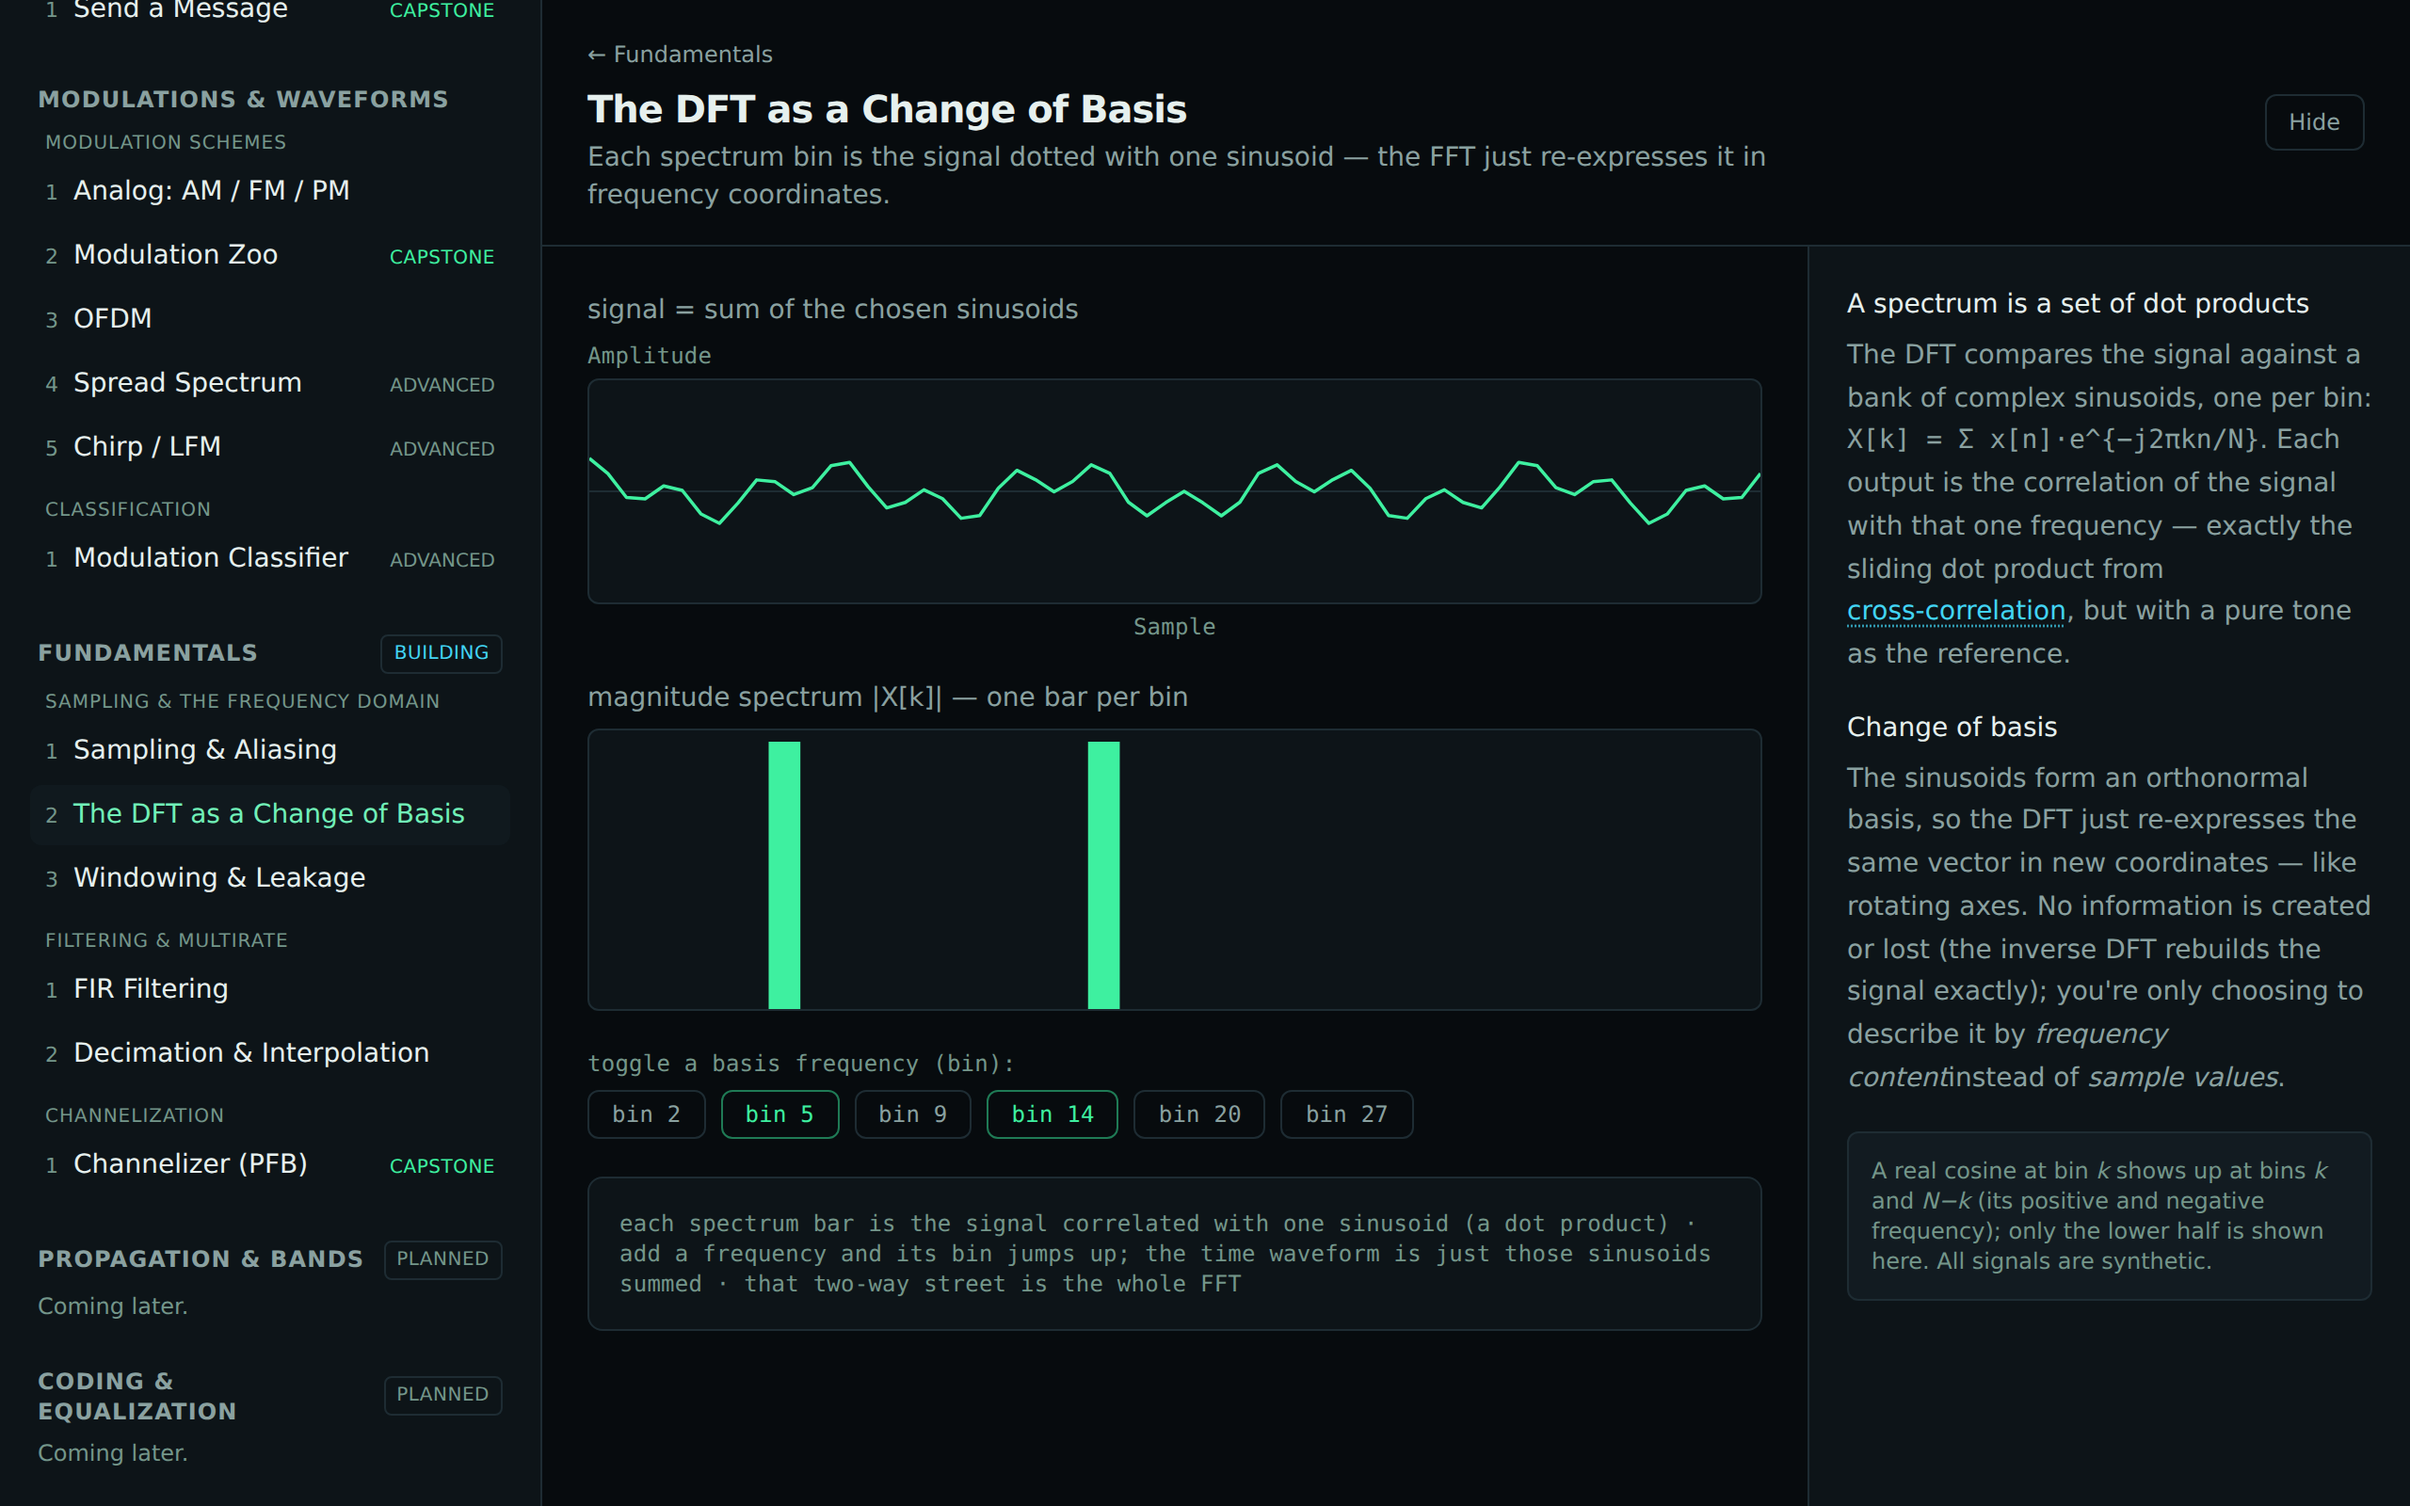
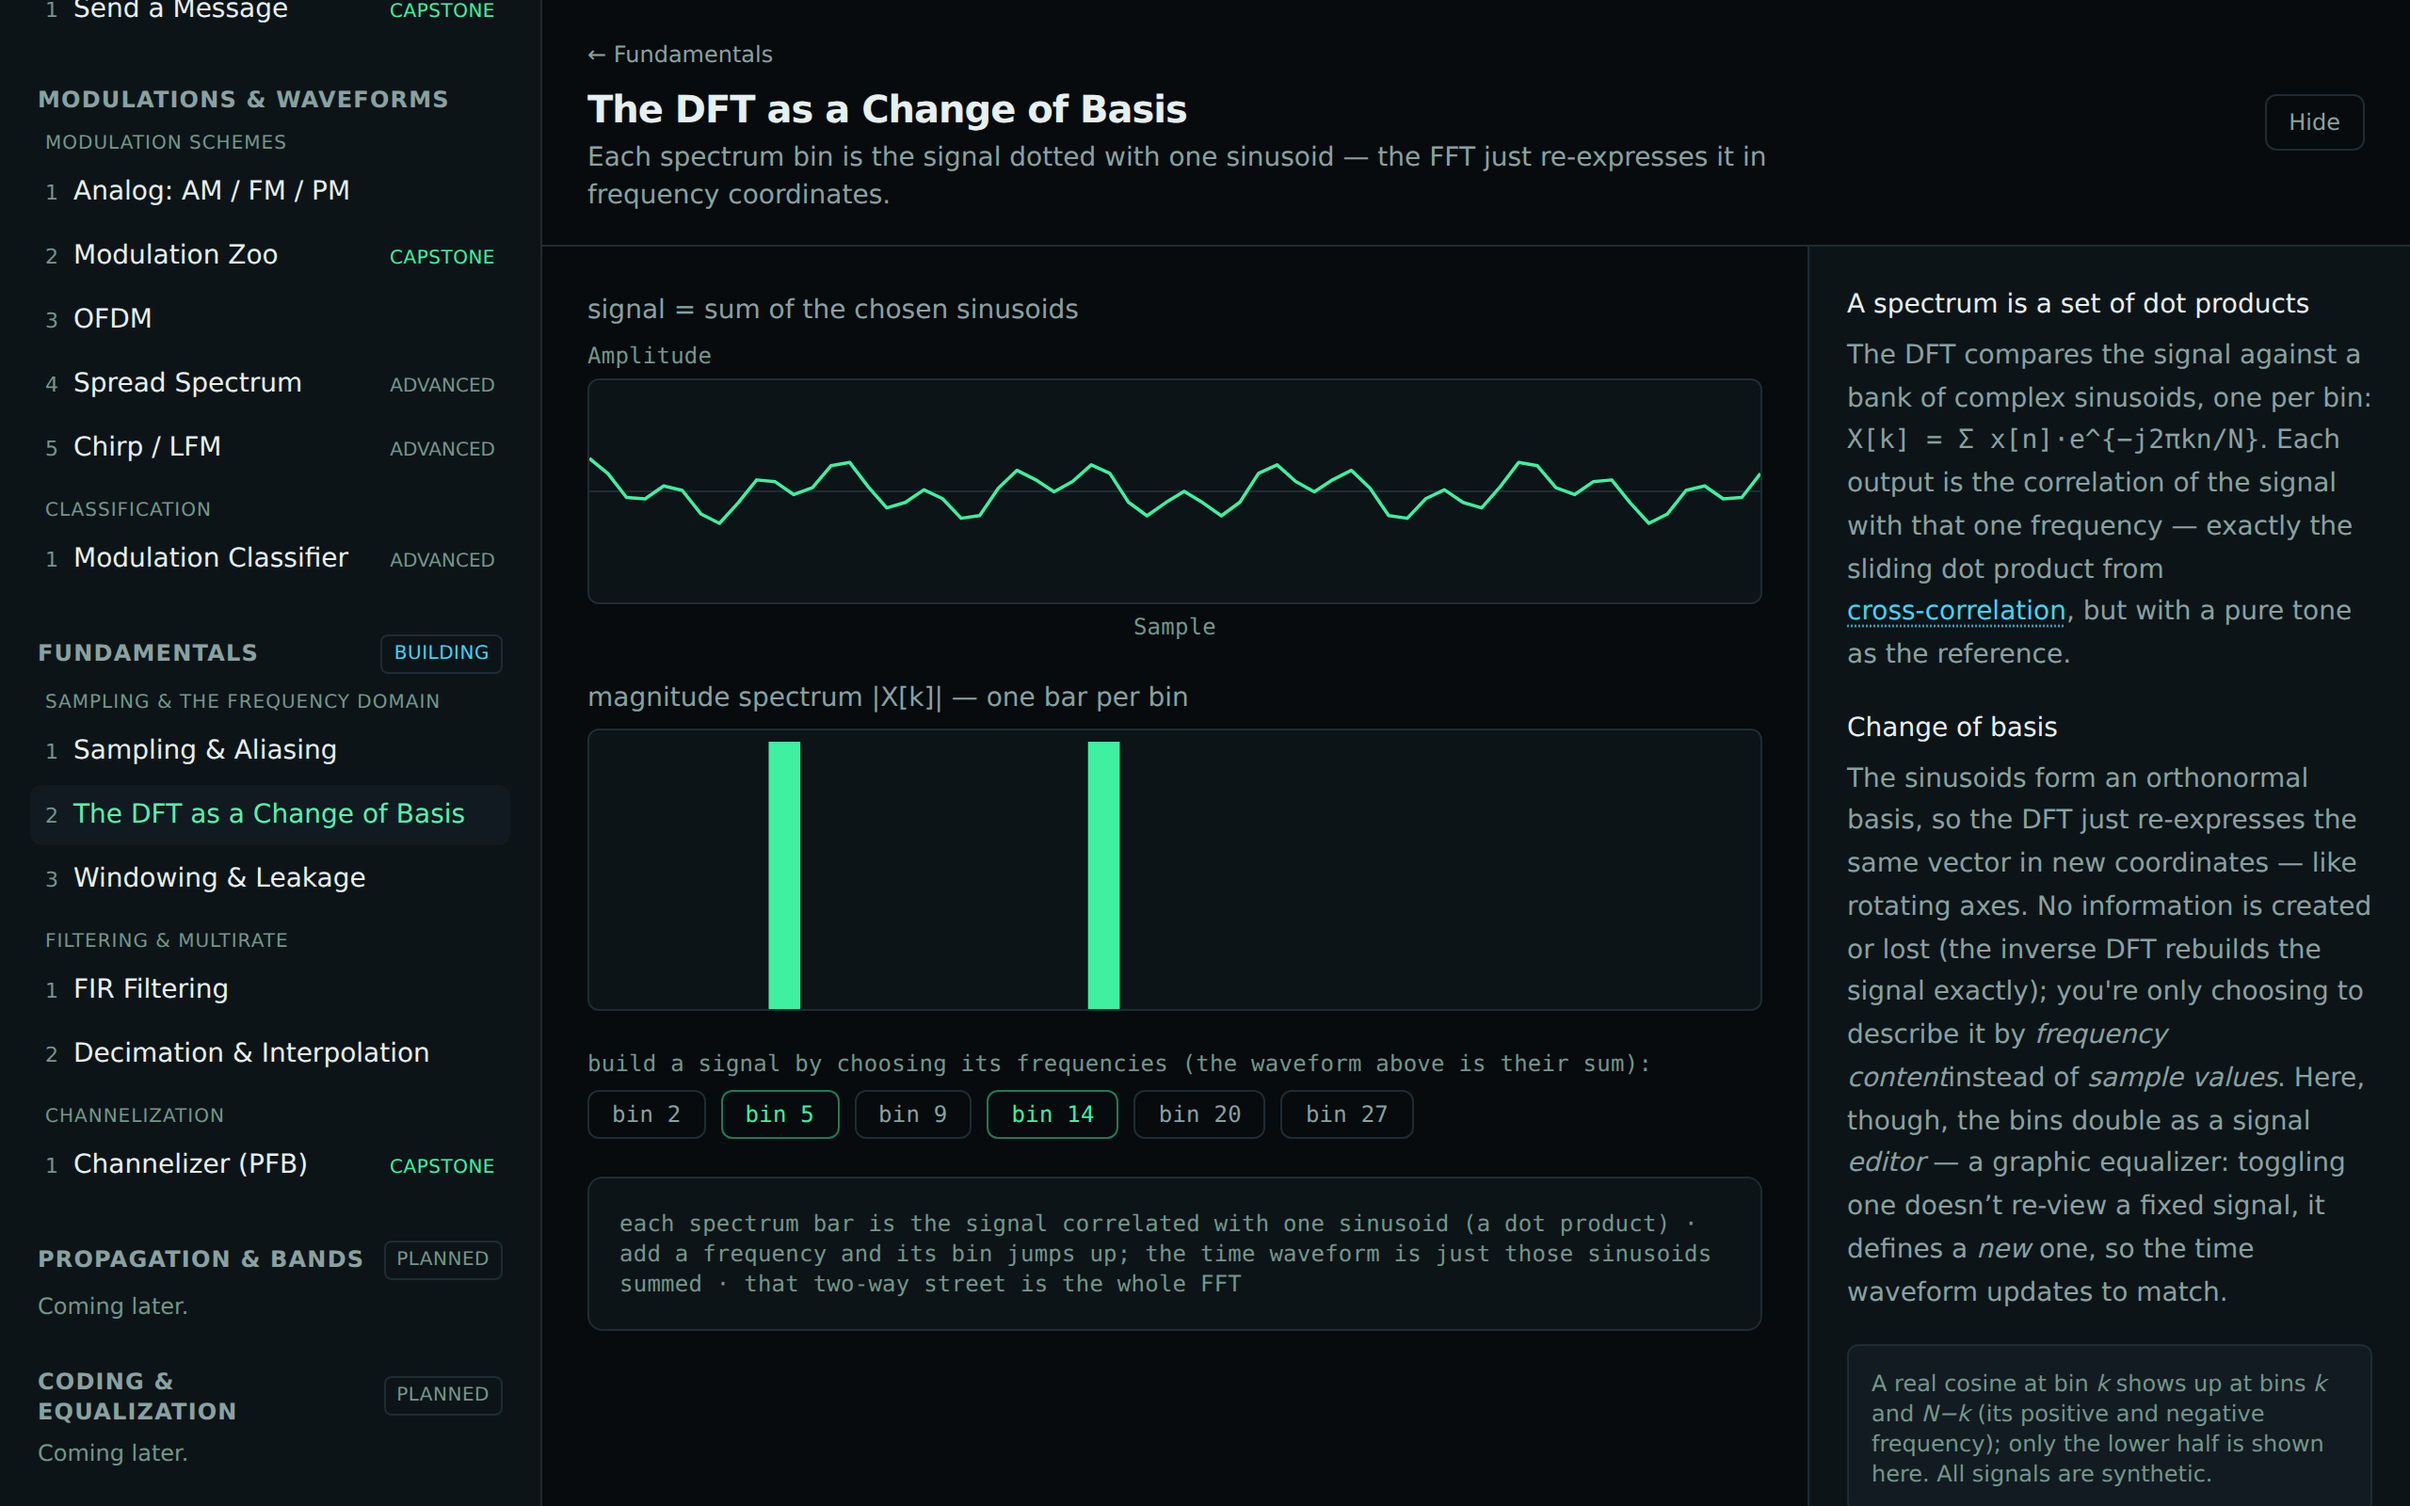
docs(dft-basis): frame the bin toggles as authoring the signal
The time + spectrum plots read as two views of one fixed signal, so toggling a
bin and watching the *time* plot change is surprising. Make the framing explicit:
the toggle-row cue now says you're building a signal by choosing its frequencies
(the waveform above is their sum), and the "Change of basis" explanation notes the
bins double as a signal editor — a graphic equalizer — so a toggle defines a new
signal rather than re-viewing a fixed one. Copy/framing only; no plot, layout, or
behavior changes.

https://claude.ai/code/session_01L57PVw4Yc1PyT7dgZxfVmq

diff --git a/src/modules/fundamentals/dft-basis/DftBasisExplanation.tsx b/src/modules/fundamentals/dft-basis/DftBasisExplanation.tsx
@@ -21,7 +21,9 @@ export function DftBasisExplanation() {
             new coordinates — like rotating axes. No information is created or lost (the inverse DFT
             rebuilds the signal exactly); you're only choosing to describe it by{' '}
             <em>frequency content</em>
-            instead of <em>sample values</em>.
+            instead of <em>sample values</em>. Here, though, the bins double as a signal{' '}
+            <em>editor</em> — a graphic equalizer: toggling one doesn&rsquo;t re-view a fixed
+            signal, it defines a <em>new</em> one, so the time waveform updates to match.
           </p>
         </section>
 

diff --git a/src/modules/fundamentals/dft-basis/DftBasisModule.tsx b/src/modules/fundamentals/dft-basis/DftBasisModule.tsx
@@ -74,7 +74,9 @@ export function DftBasisModule() {
 
       <div>
         <p className="readout mb-1.5 text-xs text-text-faint">
-          <GlossedText>toggle a basis frequency (bin):</GlossedText>
+          <GlossedText>
+            build a signal by choosing its frequencies (the waveform above is their sum):
+          </GlossedText>
         </p>
         <div className="flex flex-wrap gap-2">
           {BINS.map((k) => (
